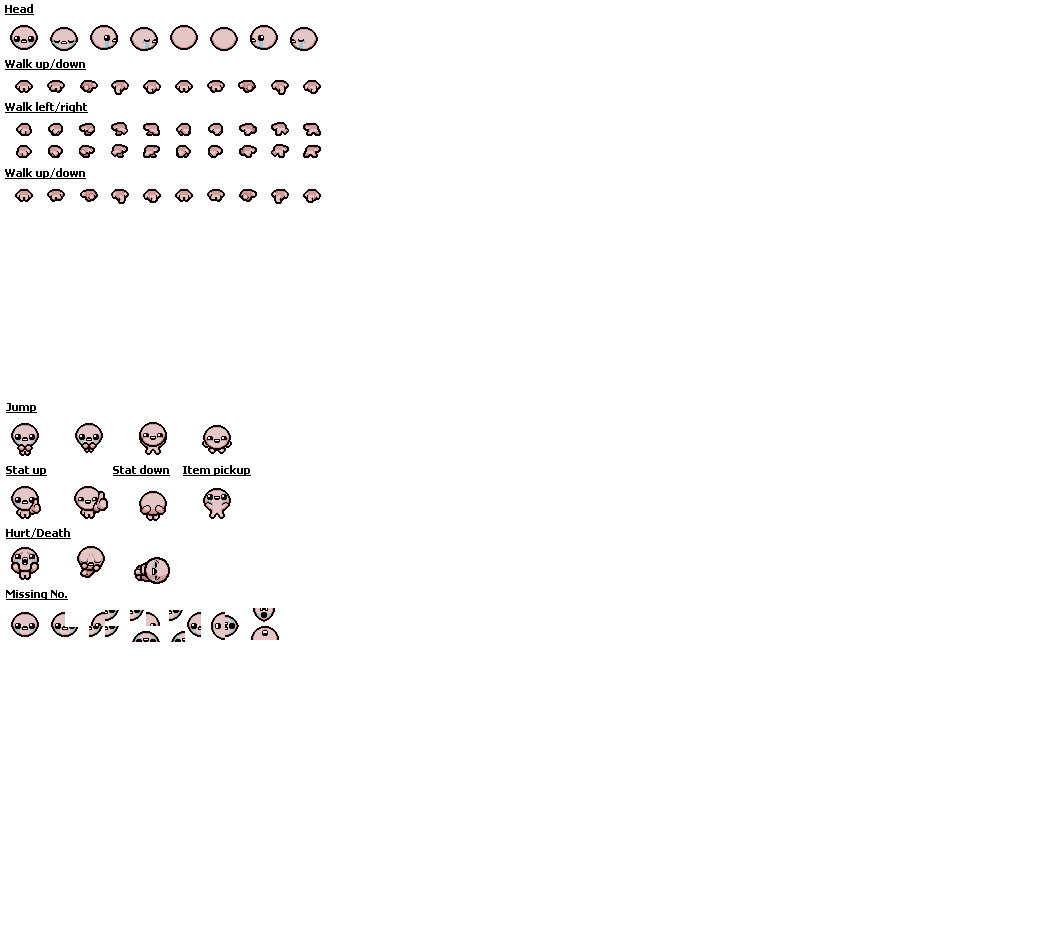
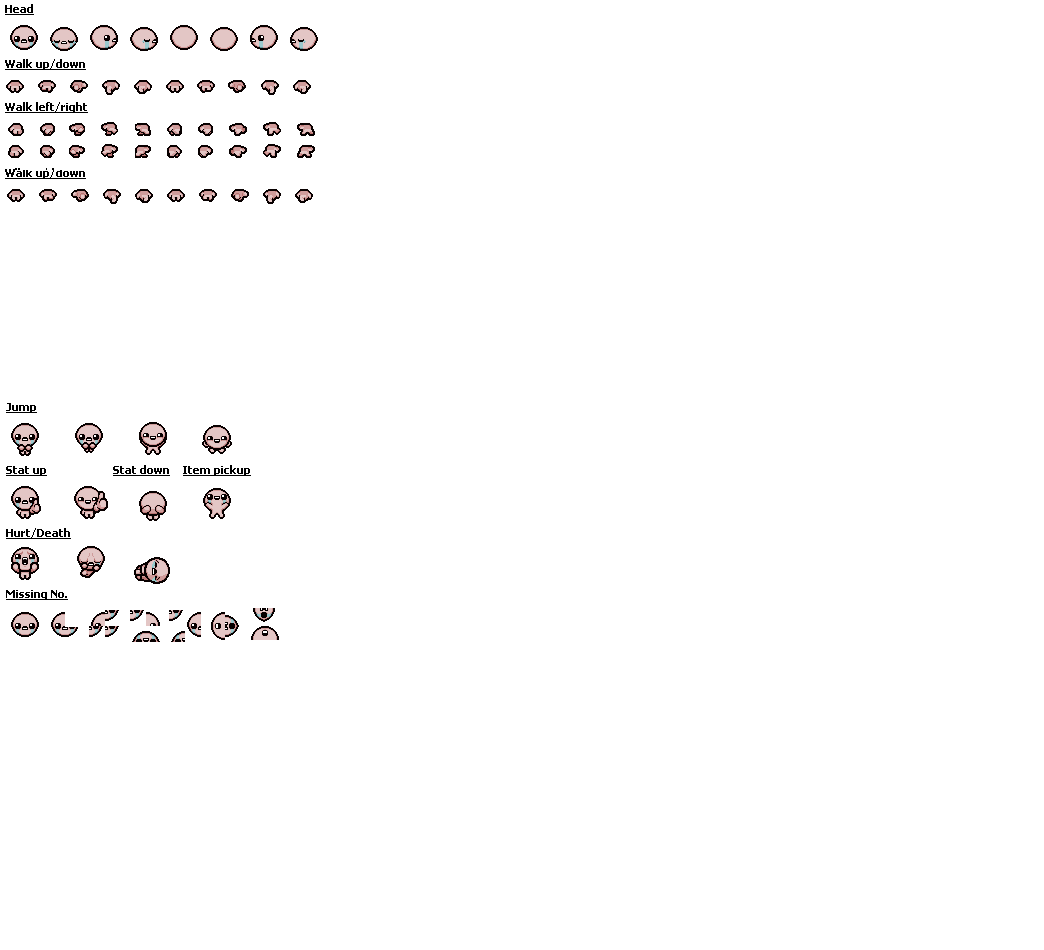
Fixed Isaac animation and rescaled

Changed region(s): [[0.0, 0.0611, 0.3065, 0.2137]]

diff --git a/isaac.js b/isaac.js
@@ -31,23 +31,23 @@ class Isaac {
 
 		//Idle Animation state = 0
 		//Facing Up = 0
-		this.animations[0][0] = new Animator(this.isaacSpritesheet, 4, 80, 40, 20, 1, 0.1, 3.5);
+		this.animations[0][0] = new Animator(this.isaacSpritesheet, 0, 79, 32, 20, 1, 0.1, 3.5);
 		//Facing Right = 1
-		this.animations[1][0] = new Animator(this.isaacSpritesheet, 2, 122, 40, 20, 1, 0.1, 3.5);
+		this.animations[1][0] = new Animator(this.isaacSpritesheet, 0, 122, 32, 20, 1, 0.1, 3.5);
 		//Facing Down = 2
-		this.animations[2][0] = new Animator(this.isaacSpritesheet, 4, 189, 40, 20, 1, 0.1, 3.5);
+		this.animations[2][0] = new Animator(this.isaacSpritesheet, 0, 188, 32, 20, 1, 0.1, 3.5);
 		//Facing Left = 3
-		this.animations[3][0] = new Animator(this.isaacSpritesheet, 2, 145, 40, 20, 1, 0.1, 3.5);
+		this.animations[3][0] = new Animator(this.isaacSpritesheet, 0, 144, 32, 20, 1, 0.1, 3.5);
 
 		//Walking Animation state = 1
 		//Facing Up = 0
-		this.animations[0][1] = new Animator(this.isaacSpritesheet, 4, 80, 32, 20, 10, 0.1, 3.5);
+		this.animations[0][1] = new Animator(this.isaacSpritesheet, 0, 79, 32, 20, 10, 0.1, 3.5);
 		//Facing Right = 1
-		this.animations[1][1] = new Animator(this.isaacSpritesheet, 2, 122, 32, 20, 10, 0.1, 3.5);
+		this.animations[1][1] = new Animator(this.isaacSpritesheet, 0, 122, 32, 20, 10, 0.1, 3.5);
 		//Facing Down = 2
-		this.animations[2][1] = new Animator(this.isaacSpritesheet, 4, 189, 32, 20, 10, 0.1, 3.5);
+		this.animations[2][1] = new Animator(this.isaacSpritesheet, 0, 188, 32, 20, 10, 0.1, 3.5);
 		//Facing Left = 3
-		this.animations[3][1] = new Animator(this.isaacSpritesheet, 2, 145, 32, 20, 10, 0.1, 3.5);
+		this.animations[3][1] = new Animator(this.isaacSpritesheet, 0, 144, 32, 20, 10, 0.1, 3.5);
 
 
 
@@ -127,12 +127,12 @@ class Isaac {
 			
 			
 		}else if(this.game.keys.ArrowDown){
-			this.animations[this.facing][this.state].drawFrame(this.game.clockTick, ctx, this.xPosition-12, this.yPosition+25);
+			this.animations[this.facing][this.state].drawFrame(this.game.clockTick, ctx, this.xPosition+1, this.yPosition+24);
 			ctx.drawImage(ASSET_MANAGER.getAsset("./res/down_shot_close.png"),this.xPosition+10,this.yPosition-50,95,91);
 			
 			//ctx.drawImage(ASSET_MANAGER.getAsset("./res/down_shot_open.png"),this.xPosition+10,this.yPosition-50,95,91);
 		}else{
-			this.animations[this.facing][this.state].drawFrame(this.game.clockTick, ctx, this.xPosition-12, this.yPosition+25);
+			this.animations[this.facing][this.state].drawFrame(this.game.clockTick, ctx, this.xPosition+1, this.yPosition+24);
 			ctx.drawImage(ASSET_MANAGER.getAsset("./res/down_shot_open.png"),this.xPosition+10,this.yPosition-50,95,91);
 			//ctx.drawImage(ASSET_MANAGER.getAsset("./res/isaac_idle.png"),this.xPosition+10,this.yPosition-50,95,120);
 		}
